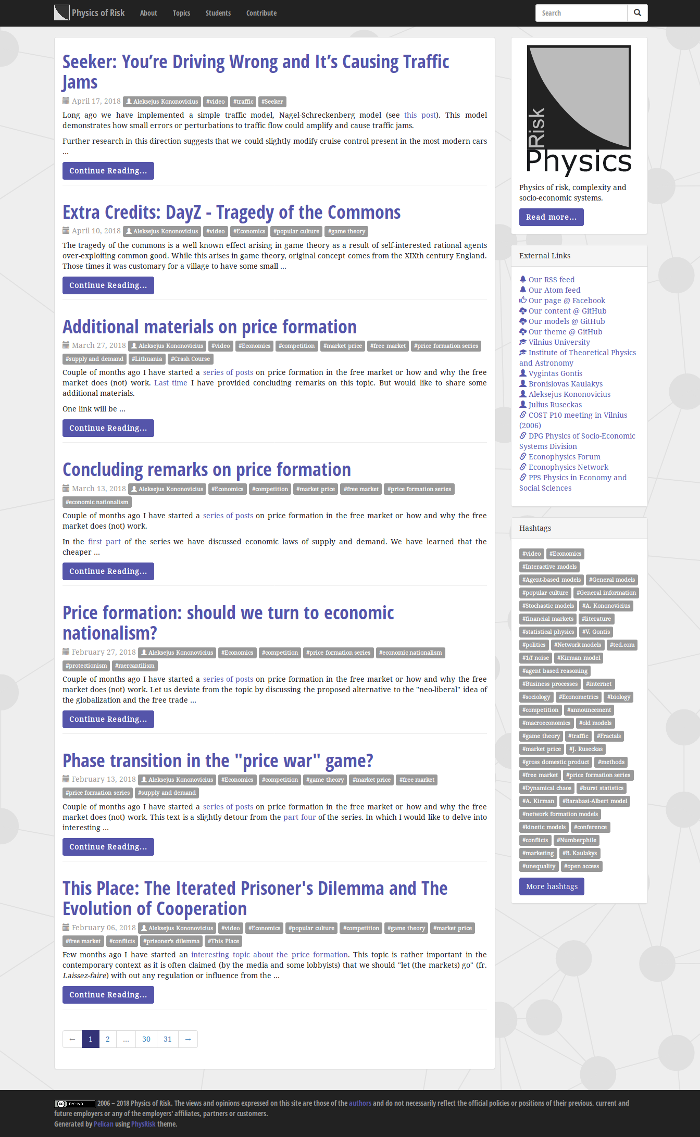
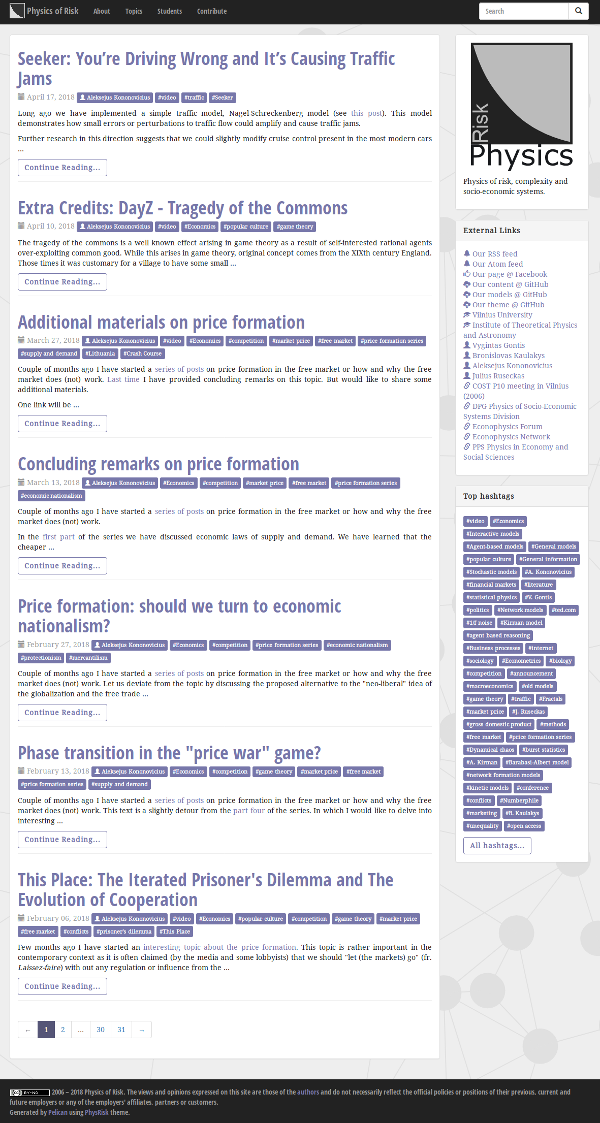
adjusting styles to previous changes

Changed region(s): [[0.0, 0.0, 0.99, 0.9973], [0.93, 0.2182, 0.99, 0.2805]]

diff --git a/static/css/style.css b/static/css/style.css
@@ -7,10 +7,10 @@ body {
     font-family: Noto Serif, serif;
 }
 a {
-    color:#55a;
+    color:#77a;
 }
 a:hover {
-    color:#337;
+    color:#557;
 }
 iframe {
     border:0px;
@@ -19,20 +19,21 @@ iframe {
     overflow:hidden;
 }
 .btn-primary {
-    background:#55a;
-    border-color:#55a;
+    background:transparent;
+    border-color:#77a;
+    color:#77a;
 }
-.continue-reading {
+.continue-reading, .more-tags {
     font-weight:bold;
 }
 .btn-primary:hover, .btn-primary:focus, .btn-primary.focus,
 .btn-primary:active, .btn-primary.active {
-    background:#337;
-    border-color:#337;
+    background:#557;
+    border-color:#557;
 }
 .pagination > .active > a, .pagination > .active > a:focus, .pagination > .active > a:hover, .pagination > .active > span, .pagination > .active > span:focus, .pagination > .active > span:hover {
-    background:#337;
-    border-color:#337;
+    background:#557;
+    border-color:#557;
 }
 h1,h2,h3,h4,h5,h6, 
 .navbar, .footer {
@@ -55,7 +56,10 @@ h1,h2,h3,h4,h5,h6,
 }
 .navbar-inverse .navbar-nav li a:hover,
 .navbar-inverse a.navbar-brand:hover {
-    background-color: #337;
+    background-color: #557;
+}
+.sidebar .sidebar-widget .panel-heading {
+    font-weight:bold;
 }
 .sidebar .sidebar-widget .panel-body {
     text-align:left;
@@ -70,6 +74,9 @@ h1,h2,h3,h4,h5,h6,
 }
 .main {
     z-index:999;
+}
+.main header {
+    margin-bottom:10px;
 }
 .main p {
     text-align:justify;
@@ -148,7 +155,7 @@ h1,h2,h3,h4,h5,h6,
     margin:10px auto;
 }
 .main .panel-heading h1,
-.main article h1 {
+.main header h1 {
     margin:0;
 }
 .main h2 {
@@ -161,11 +168,11 @@ h1,h2,h3,h4,h5,h6,
 }
 .main .post-meta .label-default,
 .sidebar .hashtag-widget .label-default {
-    background-color: #999;
+    background-color: #77a;
 }
 .main .post-meta .label-default:hover,
 .sidebar .hashtag-widget .label-default:hover {
-    background-color: #222;
+    background-color: #557;
 }
 .sidebar .hashtag-widget .more-tags {
     margin-top:10px;
